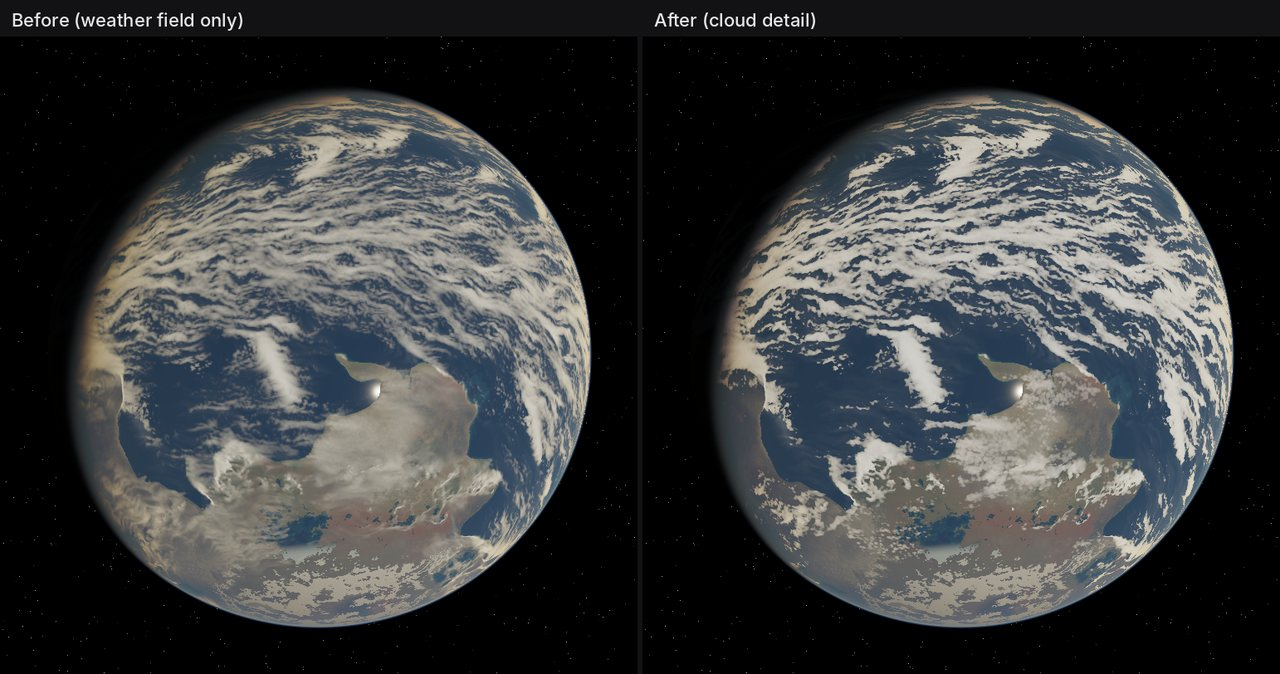
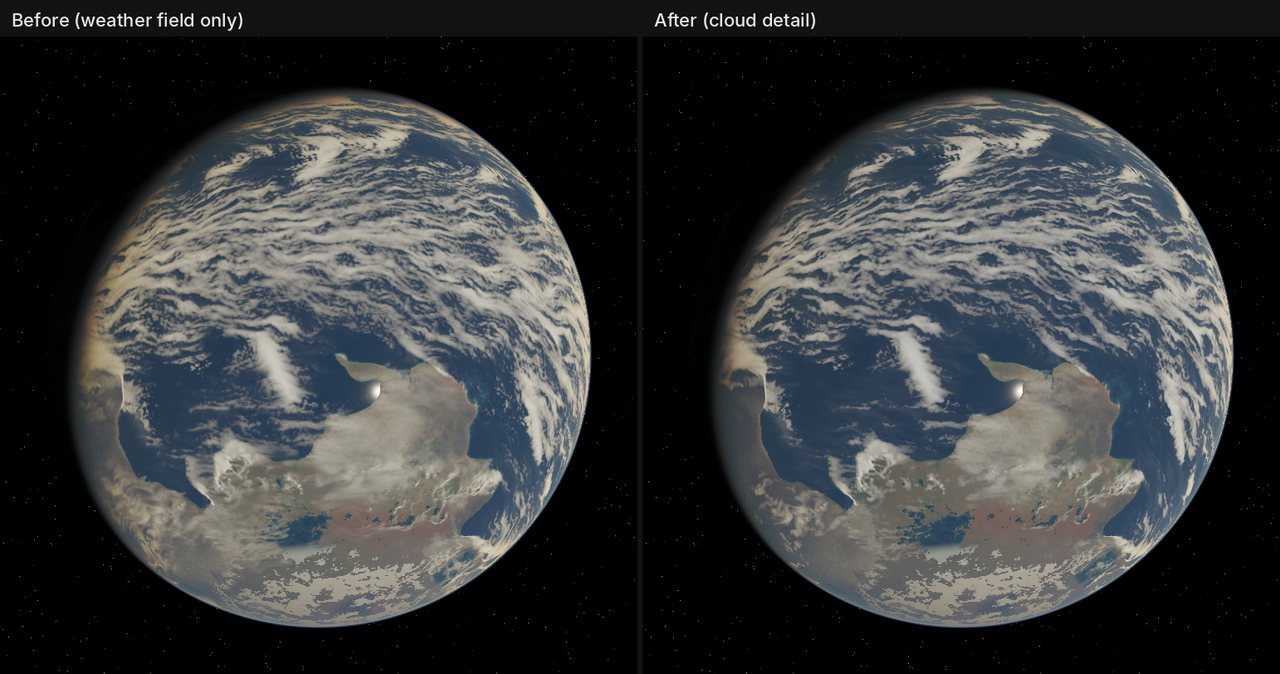
🐛 Soften preview cloud detail so fine solver ripples survive
Review found the detailed clouds denser and less detailed than the
solver field. Lower the physical depth gain (50 -> 12), halve the billow
cell (4 -> 2 texels), reduce erosion (0.35 -> 0.2) and the lookup warp
(0.7 -> 0.25 texel). Thin veils now break into cloud and clear sky
without thickening; captures and the plan are refreshed.

Claude-Session: https://claude.ai/code/session_0197Y6RThb8d4e62Bs4cfXam

Changed region(s): [[0.5625, 0.1558, 0.9688, 0.8101], [0.6875, 0.7789, 0.7188, 0.8412], [0.875, 0.7789, 0.9062, 0.8101]]

diff --git a/src/preview.rs b/src/preview.rs
@@ -1680,14 +1680,14 @@ mod tests {
             let after = optical_depth(candidate[i]);
             assert!(before > 0.005, "solver veil must cover the deck");
             clear += usize::from(after < 0.25 * before);
-            cloud += usize::from(after > 1.5 * before);
+            cloud += usize::from(after > 0.3 * before);
         }
         // A thin column is a field of broken cloud, not a uniform haze: some
-        // sky clears while the remaining cloud is optically thicker.
+        // sky clears while much of the veil survives as cloud.
         let clear = clear as f32 / center.len() as f32;
         let cloud = cloud as f32 / center.len() as f32;
-        assert!(clear > 0.05, "thin veil kept no clear sky ({clear})");
-        assert!(cloud > 0.2, "thin veil kept no thicker cloud ({cloud})");
+        assert!(clear > 0.03, "thin veil kept no clear sky ({clear})");
+        assert!(cloud > 0.2, "thin veil kept too little cloud ({cloud})");
     }
 
     #[test]

diff --git a/docs/plans/2026-10-17-002-feat-preview-cloud-detail-plan.md b/docs/plans/2026-10-17-002-feat-preview-cloud-detail-plan.md
@@ -23,8 +23,8 @@ families per column:
 - liquid column depth `d = (0.45 low + 1.65 deep) * 4.5`, the solver's own
   optical weights;
 - thickness window `t = clamp((d - 0.02) / 0.33)`, the bridge's contrast map;
-- physical depth `tau = 50 (d - 0.02) * kept`: a 0.35 solver column becomes
-  tau ~16, a stratocumulus deck;
+- physical depth `tau = 12 (d - 0.02) * kept`: a 0.35 solver column becomes
+  tau ~4 (review found gain 50 too dense: it hid the solver's fine ripples);
 - two-stream shading with g = 0.85: a layer reflects `a tau / (1 + a tau)`,
   a = 0.075, so the Beer-Lambert compositor gets `tau' = ln(1 + a tau)`. Thick
   decks turn bright without clipping to flat white; thin cloud stays
@@ -36,10 +36,10 @@ The sun path is scaled by the same multipliers, so puffs shade themselves.
 
 Same recipe as the bridge (13.3), on the preview's sphere direction:
 
-- five inverted Worley F1 octaves (cell = 4 weather texels, weights
+- five inverted Worley F1 octaves (cell = 2 weather texels, weights
   0.5/0.24/0.13/0.07/0.04) plus zero-mean wisps, mapped to 0-1 over the
   sums' p5-p95 range;
-- `solid = 1 - exp(-3t)`, `erosion = 0.35 * variety * (1 - billow)`,
+- `solid = 1 - exp(-3t)`, `erosion = 0.2 * variety * (1 - billow)`,
   `kept = clamp((solid - erosion) / (1 - erosion)) / solid`.
 
 Thin columns break into cumulus over clear sky, margins billow, thick cores
@@ -48,7 +48,7 @@ seed.
 
 ## U3: Lattice, filtering and wind
 
-- The weather lookup is warped by up to 0.7 texel along the tangent plane,
+- The weather lookup is warped by up to 0.25 texel along the tangent plane,
   which hides the bilinear texel lattice.
 - Octaves fade to their mean once smaller than the pixel footprint, so orbit
   views do not shimmer.
@@ -90,7 +90,7 @@ previous preview), right the default detail.
 - `cloud_detail_does_not_turn_uniform_decks_into_noise_masks`: 0.8 decks of
   each family keep no holes and under 6% ripple in optical depth.
 - `cloud_detail_breaks_thin_uniform_veils_into_cloud_and_clear_sky`: a 0.03
-  low deck becomes clear sky and thicker cloud.
+  low deck becomes clear sky between surviving cloud.
 - `cloud_detail_adds_no_cloud_or_shadow_to_clear_sky_and_ignores_cloud_seed`:
   empty weather renders bit-identically with detail 0 and 1; cloud seeds do
   not change the detailed render.

diff --git a/Plans.md b/Plans.md
@@ -385,7 +385,7 @@ Requirements: [docs/brainstorms/2026-10-17-preview-cloud-detail-requirements.md]
 
 | Task | 内容 | DoD | Depends | Status |
 |------|------|-----|---------|--------|
-| 14.1 | Physical optical depth (`50 * (d - 0.02)`, two-stream `ln(1 + 0.075 tau)`) and bridge billow erosion per column in `preview_cubemap.wgsl`; sun path uses the same column | Thin uniform veil breaks into cloud and clear sky; thick decks keep no holes and under 6% ripple | 13.3 | cc:完了 [2c8d14e] |
+| 14.1 | Physical optical depth (`12 * (d - 0.02)`, two-stream `ln(1 + 0.075 tau)`) and bridge billow erosion per column in `preview_cubemap.wgsl`; sun path uses the same column | Thin uniform veil breaks into cloud and clear sky; thick decks keep no holes and under 6% ripple | 13.3 | cc:完了 [2c8d14e] |
 | 14.2 | Sub-texel lookup warp, footprint octave filtering, wind-aligned billow stretch, ice sheet gain without noise | Seeds 42/73/137 captures: no texel blocks or shimmer, storm and cirrus swirls kept | 14.1 | cc:完了 [2c8d14e] |
 | 14.3 | Skylight on cloud tops; surface shadows from the detailed column | Clear sky gets no cloud light or shadow (bit-identical with detail 0 and 1) | 14.1 | cc:完了 [2c8d14e] |
 | 14.4 | Clouds > Detail slider, `PlanetFile::cloud_detail`, `_pad4` slot becomes `cloud_detail`; export pins 0 | Detail 0 matches the previous preview; cloud seed does not change the detailed render | 14.1 | cc:完了 [2c8d14e] |
